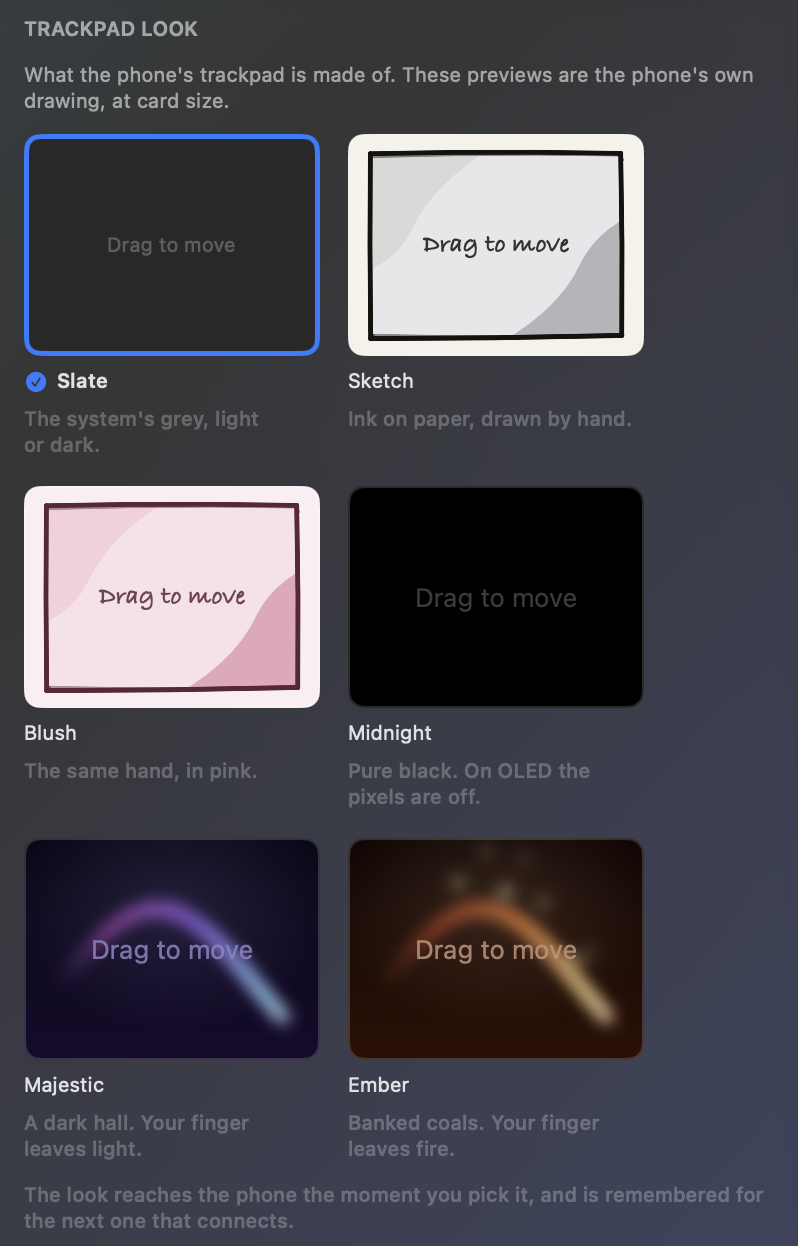
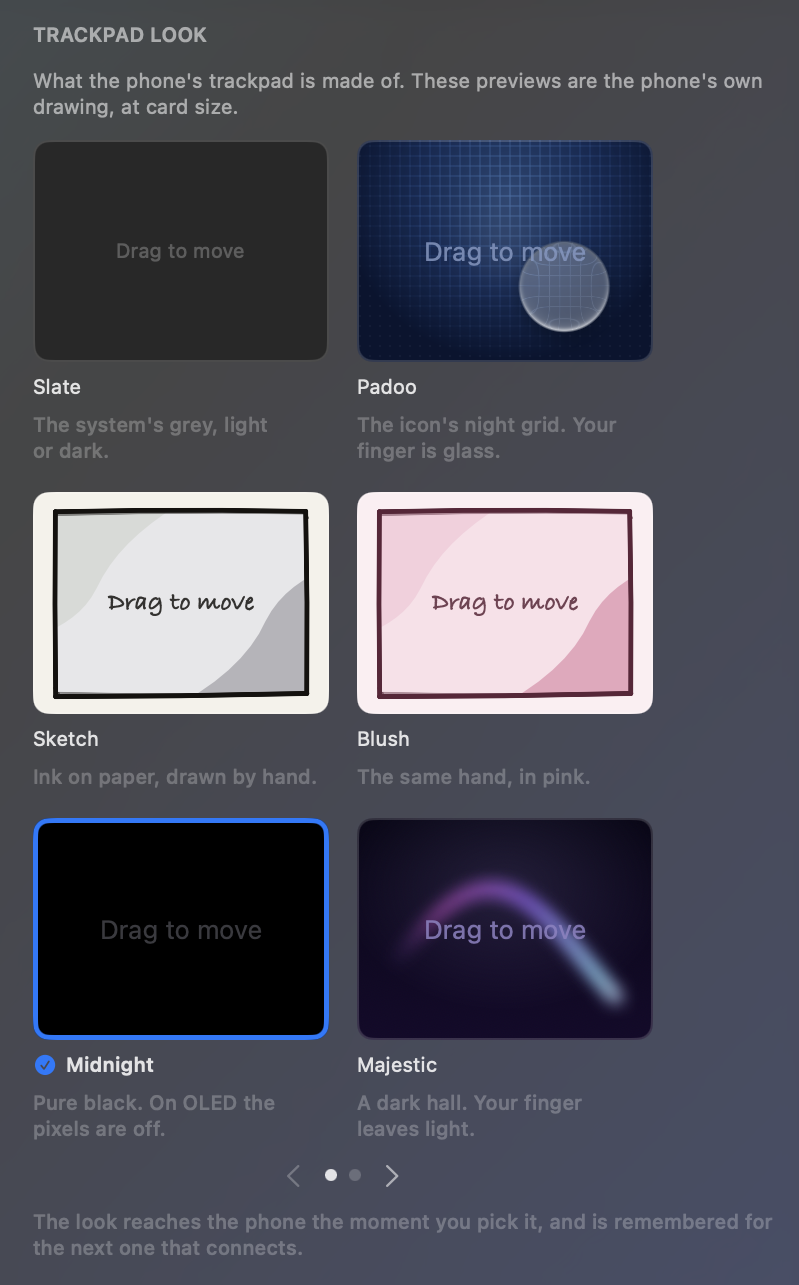
Padoo page: Gestures and trackpad looks as shipped in Mac 1.4.6
The Gestures tab was rebuilt (a live preview above Point & Drag, Scroll and
Swipes), and there are seven looks now that Padoo joined them. Both
screenshots are captured from the app's Settings window and encoded
lossless; headings, text and alt text follow. Not pushed: waiting for the
owner's approval.

Claude-Session: https://claude.ai/code/session_01N7MBiB32TRodorWGUGPvpn

diff --git a/public/padoo/index.html b/public/padoo/index.html
@@ -467,14 +467,14 @@
 
     <div class="row">
       <div class="rtext">
-        <h3>Six looks for the trackpad.</h3>
-        <p>Slate, Sketch, Blush, Midnight, Majestic and Ember. The preview cards on the Mac are drawn by the phone's own renderer, so the card you click is what the glass will look like. Midnight is pure black, which on an OLED screen means those pixels are switched off.</p>
+        <h3>Seven looks for the trackpad.</h3>
+        <p>Slate, Padoo, Sketch, Blush, Midnight, Majestic and Ember. The preview cards on the Mac are drawn by the phone's own renderer, so the card you click is what the glass will look like. Padoo is the icon's night grid, with a drop of glass under your finger. Midnight is pure black, which on an OLED screen means those pixels are switched off.</p>
         <ul>
           <li>Sketch and Blush are drawn by hand in ink; Majestic and Ember light up under your finger</li>
           <li>The look reaches the phone the moment you pick it</li>
         </ul>
       </div>
-      <div><div class="shot plain" style="max-width:399px"><img src="shots/crop-looks.webp" alt="Six trackpad looks: Slate, Sketch, Blush, Midnight, Majestic and Ember." /></div></div>
+      <div><div class="shot plain" style="max-width:399px"><img src="shots/crop-looks.webp" alt="Trackpad looks on the Mac: Slate, Padoo, Sketch, Blush, Midnight and Majestic, with Ember on the second page." /></div></div>
     </div>
 
     <div class="row">
@@ -492,15 +492,15 @@
 
     <div class="row wide">
       <div class="rtext">
-        <h3>Nine thresholds, so it will be a perfect fit for you.</h3>
-        <p>The sliders cover how far a finger may stray and still count as a tap, how long a hold waits before it turns into a drag, and how much of a swipe has to travel before it commits to a Space. Each one shows the shipped default beside your value, and one button restores them all.</p>
+        <h3>Tune the feel and watch it happen.</h3>
+        <p>Tracking speed, hold to drag, scrolling and three-finger swipes each get a plain slider. Above them, a live preview shows a finger on the phone and what the Mac does with it, so you see a change as you make it. Telling taps, clicks and drags apart is Padoo's job, not a setting.</p>
         <ul>
-          <li>Tap travel, drag confirmation, hold delay, swipe commit and more</li>
-          <li>The shipped value stays visible beside yours</li>
-          <li>Reset to shipped values in one click</li>
+          <li>Point &amp; Drag, Scroll and Swipes, each on its own page</li>
+          <li>A small mark under every slider shows the default</li>
+          <li>Restore Defaults in one click</li>
         </ul>
       </div>
-      <div><div class="shot plain" style="max-width:788px;margin:0 auto"><img src="shots/gestures.webp" alt="Gestures settings: scroll acceleration and invert scroll direction above nine gesture sliders grouped into taps and clicks, hand resting, dragging and three-finger swipes, each beside its shipped value." /></div></div>
+      <div><div class="shot plain" style="max-width:788px;margin:0 auto"><img src="shots/gestures.webp" alt="Gestures settings on the Mac: a live preview of a finger on the phone beside the Mac&#39;s cursor, above Point &amp; Drag, Scroll and Swipes pages, with Tracking speed and Hold to drag sliders and a Restore Defaults button." /></div></div>
     </div>
 
   </div>
